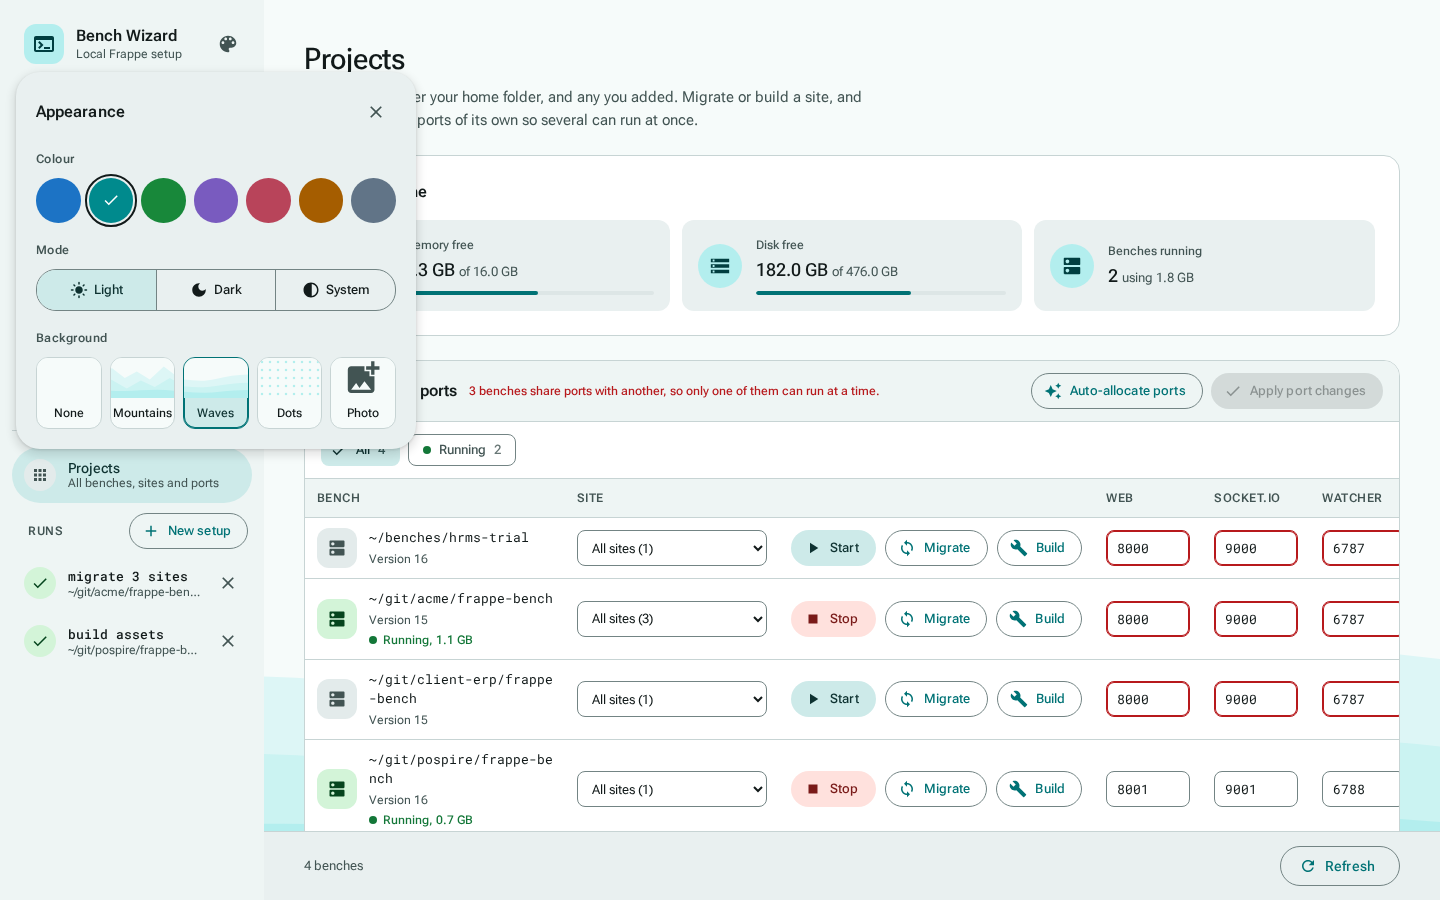
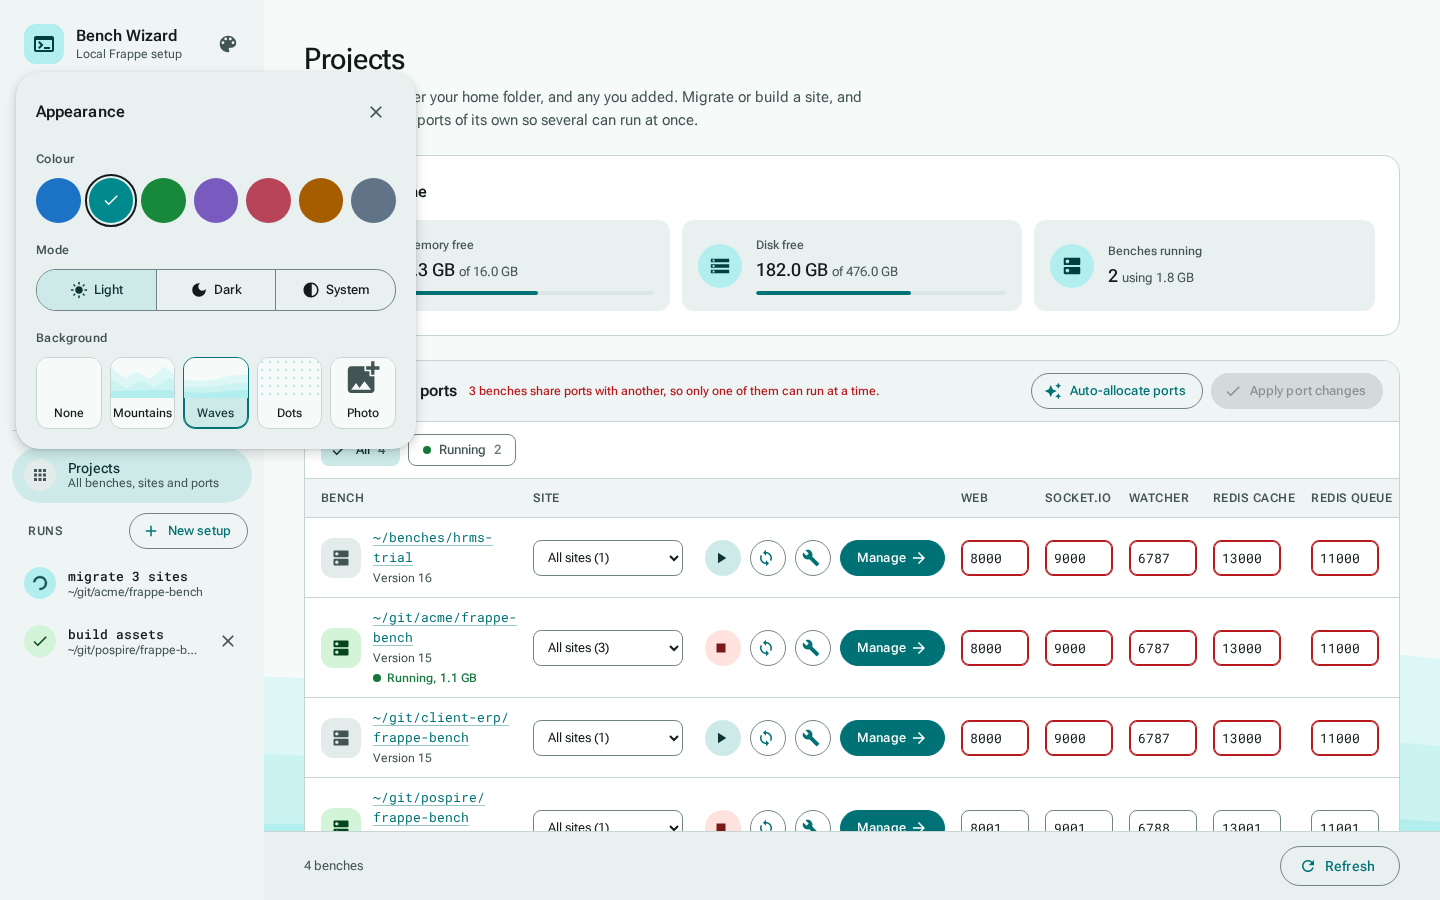
Update README and screenshots for bench pages, backups, logs and folder browsing

diff --git a/README.md b/README.md
@@ -8,7 +8,9 @@ at once**.
 
 Its **Projects** screen lists every bench on the machine with its sites, ports, memory use and state. From there
 you start and stop benches, run `migrate` or `build`, and give each bench ports of its own so several can run side
-by side. Apps can come from the catalog, any Git URL, or the free apps in the **Frappe Cloud Marketplace**.
+by side. **Manage** opens one bench up close: open a site signed in as Administrator, back sites up and restore them
+as copies, update apps or move them to another branch, read its logs, and download backups from Frappe Cloud. Apps
+can come from the catalog, any Git URL, or the free apps in the **Frappe Cloud Marketplace**.
 
 Python 3.10+ standard library only. No build step, no dependencies.
 
@@ -22,6 +24,7 @@ Python 3.10+ standard library only. No build step, no dependencies.
 - [Using the wizard, step by step](#using-the-wizard-step-by-step)
 - [Adding apps to an existing bench](#adding-apps-to-an-existing-bench) · [Migrating several sites at once](#migrating-several-sites-at-once)
 - [Projects: every bench on this machine](#projects-every-bench-on-this-machine)
+- [One bench up close: sites, apps, backups and logs](#one-bench-up-close-sites-apps-backups-and-logs)
 - [Several runs at once](#several-runs-at-once)
 - [Browser extension: copy apps from a Frappe Cloud site](#browser-extension-copy-apps-from-a-frappe-cloud-site)
 - [Which GitHub account it uses](#which-github-account-it-uses)
@@ -35,12 +38,15 @@ Python 3.10+ standard library only. No build step, no dependencies.
 |---|---|
 | **Onboard a developer** on a fresh Ubuntu or Mac | Installs Python, Node (via nvm), MariaDB, Redis, wkhtmltopdf, Yarn and the Bench CLI, then builds a working bench and site in one run. |
 | **Reproduce a production issue locally** | Restores a `.sql`/`.sql.gz` backup (plus public/private files) as a new site, with switches that mute email, pause the scheduler and hold back webhooks/SMS so the copy cannot reach real customers. |
-| **Mirror a Frappe Cloud site** | The [browser extension](#browser-extension-copy-apps-from-a-frappe-cloud-site) copies the site's apps, repos and branches into the wizard, so your local bench matches what runs in the cloud. |
+| **Mirror a Frappe Cloud site** | The [browser extension](#browser-extension-copy-apps-from-a-frappe-cloud-site) copies the site's apps, repos and branches into the wizard, so your local bench matches what runs in the cloud; [Frappe Cloud backups](#backups-from-frappe-cloud) brings its data down too. |
 | **Try an app** on a bench you already use | [Existing-bench mode](#adding-apps-to-an-existing-bench) fetches only what is missing, installs it on the site you pick and rebuilds assets. |
 | **Standardise team setups** | A shared `catalog.json` (or your own `~/.config/bench-wizard/catalog.json`) gives everyone the same versions, apps and presets. |
 | **Run several projects on one machine** | [Projects](#projects-every-bench-on-this-machine) finds every bench, shows which share ports, and gives each its own web, Socket.IO and Redis ports so they can run at the same time. |
 | **Start, stop and watch benches** | Start or stop any bench from one screen, see the memory each running bench holds, and get a warning when memory or disk runs low. |
-| **Migrate many sites after a pull** | [Migrate sites](#migrating-several-sites-at-once) runs `bench --site … migrate` on the sites you tick, side by side, each with its own log. |
+| **Migrate many sites after a pull** | [Migrate sites](#migrating-several-sites-at-once) backs up and migrates the sites you tick, side by side, each with its own log, and says which patch failed and why. |
+| **Look into a site quickly** | [Open as Administrator](#sites) opens the desk already signed in; the bench's [logs](#logs) are searchable, with errors in red. |
+| **Copy a site for testing** | [Back up](#backups) a site, then **Restore as a new site**: a UAT copy with email muted and the scheduler paused. |
+| **Keep apps up to date** | [Check for updates](#apps) shows how many commits each app is behind; **Update** or **Change branch** pulls, migrates and builds. |
 | **Try a Marketplace app** | Pick a free app from the [Frappe Cloud Marketplace](#3-apps); the wizard finds its repository and the branch for your Frappe version. |
 | **Work with private apps** | Paste a token-carrying HTTPS URL or choose an SSH host alias; the token is kept in memory only and scrubbed from logs. |
 
@@ -111,6 +117,9 @@ For a new bench pick:
 - **Site data.** A new empty site, or **Restore from backup**: a `.sql`/`.sql.gz` path, optional public/private
   file archives, an optional backup encryption key and the source site's `encryption_key`.
 
+Until you press **Start**, **Start over** in the side bar clears every choice and goes back to this step. It asks
+first, and nothing on disk changes.
+
 ### 2. System check
 
 ![System check: every prerequisite with required and found versions](screenshots/2-system-check.png)
@@ -173,7 +182,9 @@ For a restored site it also lists which safety switches were applied.
 Choose **Add apps to an existing bench** on the Project step, type the bench folder (the one holding `apps/`
 and `sites/`) and click **Load bench**. The wizard reads:
 
-- the **Frappe version**, from `apps/frappe/frappe/__init__.py` (it must be a version in the catalog),
+- the **Frappe version**, from `apps/frappe/frappe/__init__.py`. Any version works, 13 and 14 included; for one
+  the catalog does not list, Python comes from the bench's own `env`. (New benches are set up on the catalog's
+  versions only, since the wizard has to know which Python and Node to install.)
 - the **Node version**, from the bench's `.nvmrc`, or your nvm default if there is none,
 - the **apps in the bench**, from `sites/apps.txt`,
 - each **site** and the apps installed on it, via `bench --site <site> list-apps`.
@@ -206,11 +217,19 @@ Node than the bench uses, the wizard writes the bench's `.nvmrc` so `nvm use` pi
 
 ![Three sites of one bench migrating side by side while another bench builds its assets](screenshots/7-migrate-sites.png)
 
-Load a bench on the Project step, choose **Migrate sites** and tick the sites. The Review step shows one
-`bench --site <site> migrate` per site; **Start migrate** runs them all at the same time, each with its own log. The
+Load a bench on the Project step, choose **Migrate sites** and tick the sites. With **Back up each site first** (on
+by default), each site runs `bench --site <site> backup --with-files` and then `migrate`, in the same step, so a
+site's migrate waits for its own backup. **Start migrate** runs the sites at the same time, each with its own log. The
 run starts the bench's own Redis while it works, since migrate queues jobs. If some fail, **Retry failed** runs only those
 again. The Projects screen's **Migrate** button does the same for one site, or all of a bench's sites, without the
 wizard steps.
+
+![A failed migrate: the patch it stopped in, what that kind of error usually means, and the error itself](screenshots/14-migrate-diagnosis.png)
+
+When a migrate fails, the run screen says **why**: the patch it was in (the last `Executing … in` line), the kind
+of failure, with what it usually means, and the error line itself. It recognises a missing column, a missing table,
+duplicate rows, a value too long for its column, and text where a number belongs. The approach comes from Frappe's
+[Pilot](https://github.com/frappe/pilot).
 
 ## Projects: every bench on this machine
 
@@ -218,8 +237,16 @@ wizard steps.
 
 Click **Projects** in the side bar. The wizard looks for benches (a folder with `apps/frappe` and `sites/`) up to
 three folders deep in your home folder, skipping hidden folders and the inside of benches, so the scan takes well
-under a second. Benches elsewhere, or deeper, can be added with **Add a bench**; they, and every bench the wizard
-creates, are remembered in `~/.local/state/bench-wizard/benches.json`.
+under a second.
+
+![Where benches are found: the folders searched, and Browse… open on a folder with two benches in it](screenshots/15-folder-explorer.png)
+
+**Where benches are found**, at the bottom, lists the folders searched. Type a path or click **Browse…** to walk
+the disk in the page: folders that are benches are marked, with an **Add bench** button, and **Search this folder**
+adds the folder you are in, so benches up to three folders below it are listed too (for example `/srv/benches`). A
+bench folder added on its own is listed by itself. The × on a chip takes it off the list; nothing on disk changes.
+Searched folders are kept in `~/.local/state/bench-wizard/folders.json`; benches added by hand, and every bench the
+wizard creates, in `benches.json` next to it.
 
 **This machine** shows free memory and disk, how many benches are running and the memory they hold. A red bar and
 a note appear when less than 2 GB of memory or 10 GB of disk is free; the same note shows on the Review step before
@@ -233,9 +260,12 @@ Each bench row has:
 | **Start** | Runs `bench start` in the bench, in a session of its own, so it keeps running after you close the wizard. Its output goes to the bench's `logs/bench-start.log`. It is refused while one of the bench's ports is in use, and if `bench start` stops within 3 seconds (for example Redis could not bind its port), its last lines are shown. |
 | **Stop** | Stops the bench the way Ctrl+C does: honcho stops every process it started. |
 | **Migrate** / **Build** | Run `bench --site … migrate` or `bench build` right away, as a run you can follow under **Runs**. |
+| **Manage** | Opens the [bench's own page](#one-bench-up-close-sites-apps-backups-and-logs). Clicking the bench's name does the same. |
 | **Ports** | The bench's web, Socket.IO, file watcher, Redis cache and Redis queue ports. Ports shared with another bench are outlined in red. |
 
-The **All / Running** chips above the table show every bench or only the ones running now.
+The **All / Running** chips above the table show every bench or only the ones running now. In a window narrower
+than about 1,640 pixels, Start, Stop, Migrate and Build show only their icons (their names show on hover), so the
+table fits without scrolling sideways.
 
 ![Dark theme with the Running filter: only the benches that are running, with their Stop buttons](screenshots/10-dark-running.png)
 
@@ -261,6 +291,68 @@ highlighted fields (or type your own) and click **Apply port changes**. For each
 
 A bench uses its new ports the next time it starts, so its sites then open on the new web port. New benches made
 by the wizard get a free slot from the start.
+
+## One bench up close: sites, apps, backups and logs
+
+![A bench's page: its sites with their apps and actions, and its apps after Check for updates](screenshots/11-bench-page.png)
+
+**Manage** on the Projects screen opens one bench: its version, web port and Node, whether it is running (with
+**Start** or **Stop** at the bottom), and four sections. Every action that changes something runs like any other run,
+with a live log, **Retry** and **Cancel**, and ends with **Back to the bench**.
+
+### Sites
+
+Each site shows the apps installed on it. On each site:
+
+| Button | What it does |
+|---|---|
+| **Open as Administrator** | Opens the site's desk in a new tab, already signed in, using Frappe's own login. The bench must be running, since sign-ins are kept in its Redis. The site's name must open in a browser: names ending in `.localhost` always do; any other needs a line in `/etc/hosts`. |
+| **Back up** | `bench --site … backup --with-files`. **Back up all** does every site, side by side. |
+| **Config** | Edits the site's `site_config.json`. Passwords and keys show as `********` and keep their value unless you type a new one; the file must stay valid JSON and keep its `db_name`. |
+| **Drop** | `bench drop-site`, after asking for the MariaDB root password. bench backs the site up first and moves its folder to `archived_sites`. |
+| **×** on an app | `bench --site … uninstall-app … --yes`, after you confirm. bench backs the site up first; the app stays in the bench. |
+
+**Migrate all**, with **Back up first**, migrates every site of the bench as described [above](#migrating-several-sites-at-once).
+
+### Apps
+
+Each app's branch and last commit. **Check for updates** fetches each app's remote branch and shows how many new
+commits it has, or *Up to date*; *Local changes* means files in the app were edited. **Update** pulls the new
+commits (`bench update --pull --apps <app>`); **Change branch** lists the repository's branches and moves the app to
+the one you pick (`bench switch-to-branch`). Both then run `bench setup requirements`, migrate every site and build
+that app's assets.
+
+### Backups
+
+![Backups: the bench's own, ready to restore as a new site, and a Frappe Cloud site's backups](screenshots/12-backups.png)
+
+Every backup in the bench's sites, newest first, with the files it has and its size. **Restore as a new site** opens
+the wizard's [New site from a backup](#adding-apps-to-an-existing-bench) form for this bench, filled in. That is how
+to **copy a site**, for example for UAT: back it up, then restore it under a new name. The copy starts with outgoing
+email muted and the scheduler paused.
+
+#### Backups from Frappe Cloud
+
+Type a Frappe Cloud site's address (`mysite.frappe.cloud`) and click **Ask for access**. The wizard shows a code
+and a link; someone on that site's team signs in to Frappe Cloud, opens the link and approves the request, checking
+the code matches. **Check again** then lists the site's backups; **Download into this bench** fetches one into
+`fc-backups/<site>/` in the bench, where it shows under Backups, ready to restore. **Take a new backup** asks
+Frappe Cloud for a fresh one, and **Remove** withdraws the access.
+
+- Nothing is configured in the wizard: no API key or Frappe Cloud login. The approval is the permission.
+- It uses Frappe Cloud's migration API, the way Frappe's [Pilot](https://github.com/frappe/pilot) does, which
+  serves a site's offsite backups. Sites from several teams can be listed at once, each with its own access.
+- **Frappe Cloud address** is `https://cloud.frappe.io` for everyone, except an organisation that runs its own
+  Frappe Cloud (Press); each site keeps the address it was added with.
+- The access token is kept in `~/.local/state/bench-wizard/frappe-cloud.json`, readable only by you. The download
+  links are signed and short-lived, and are not written to the run's log.
+
+### Logs
+
+![Logs: a bench's log with an error and its traceback in red](screenshots/13-logs.png)
+
+Pick any file in the bench's `logs/` folder. **Search** keeps only the lines with the text, **Errors only** keeps
+error lines and tracebacks (shown in red anyway), and **Follow** adds new lines as the bench writes them.
 
 ## Several runs at once
 
@@ -421,7 +513,11 @@ folders in your home, and runs without the DevTools pipe, so reopening there ope
 | **Start setup** is disabled | A pre-flight check failed. Fix it (for example remove a leftover bench folder) and click **Re-run checks**. |
 | A step failed during Run | Open the step's log, fix the cause, then **Retry step N**. `pip`/`yarn` cache clashes usually pass on retry. |
 | The extension card never shows *connected* | Start the wizard without `--port`, reload the extension, and make sure ports 47615–47619 are not all taken. |
-| "this bench runs Frappe N" when loading a bench | Existing-bench mode supports only the versions in the catalog (15 and 16). |
+| "new benches are set up on Version 15, Version 16 only" | A bench of another version can be used as an existing bench, but the wizard sets up new benches only on the catalog's versions. |
+| **Open as Administrator** is greyed out | The bench is not running; press **Start** at the bottom of its page. |
+| "… does not resolve on this machine" | The site's name does not open in a browser. Add `127.0.0.1 <site>` to `/etc/hosts`, or use a site name ending in `.localhost`. |
+| A Frappe Cloud site stays *Pending* | The request has not been approved yet. Someone on the site's team must open the approval link while signed in to Frappe Cloud. |
+| A migrate failed with *Missing column* or *Duplicate rows* | The note under the run names the patch. Fix the data or run the patch it depends on, then **Retry failed**. |
 | A site shows "Cannot read its apps" | `bench --site <site> list-apps` failed. Check that MariaDB is running and the site's config is valid. |
 | **Start** says "port N is in use" | Another bench (or program) holds that port. Stop it, or use **Auto-allocate ports** and **Apply** so this bench gets ports of its own. |
 | **Start** says "bench start stopped right away" | The lines shown come from `logs/bench-start.log` in the bench. A Redis "Address already in use" means a port clash; a missing `Procfile` means the bench needs `bench setup procfile`. |
@@ -439,9 +535,11 @@ python3 -m unittest discover -s tests
 ## Notes
 
 - Bench folder paths must not contain spaces.
-- Passwords and tokens are never written to disk or shown in logs.
-- A new bench always goes into a new folder. Existing-bench mode only adds apps, or a new site, to a bench; it
-  never removes anything.
+- Passwords and tokens are never shown in logs, and never written to disk, except the Frappe Cloud access token
+  (in a file only you can read) when you ask for access to a site.
+- A new bench always goes into a new folder. Existing-bench mode only adds apps, or a new site, to a bench. Removing
+  something (Drop, uninstalling an app) happens only on a bench's own page, after you confirm it, and bench backs the
+  site up first.
 - Screenshots in this README were taken from the wizard itself, with demo benches, a placeholder home folder and a
   stand-in `bench` command.
 
